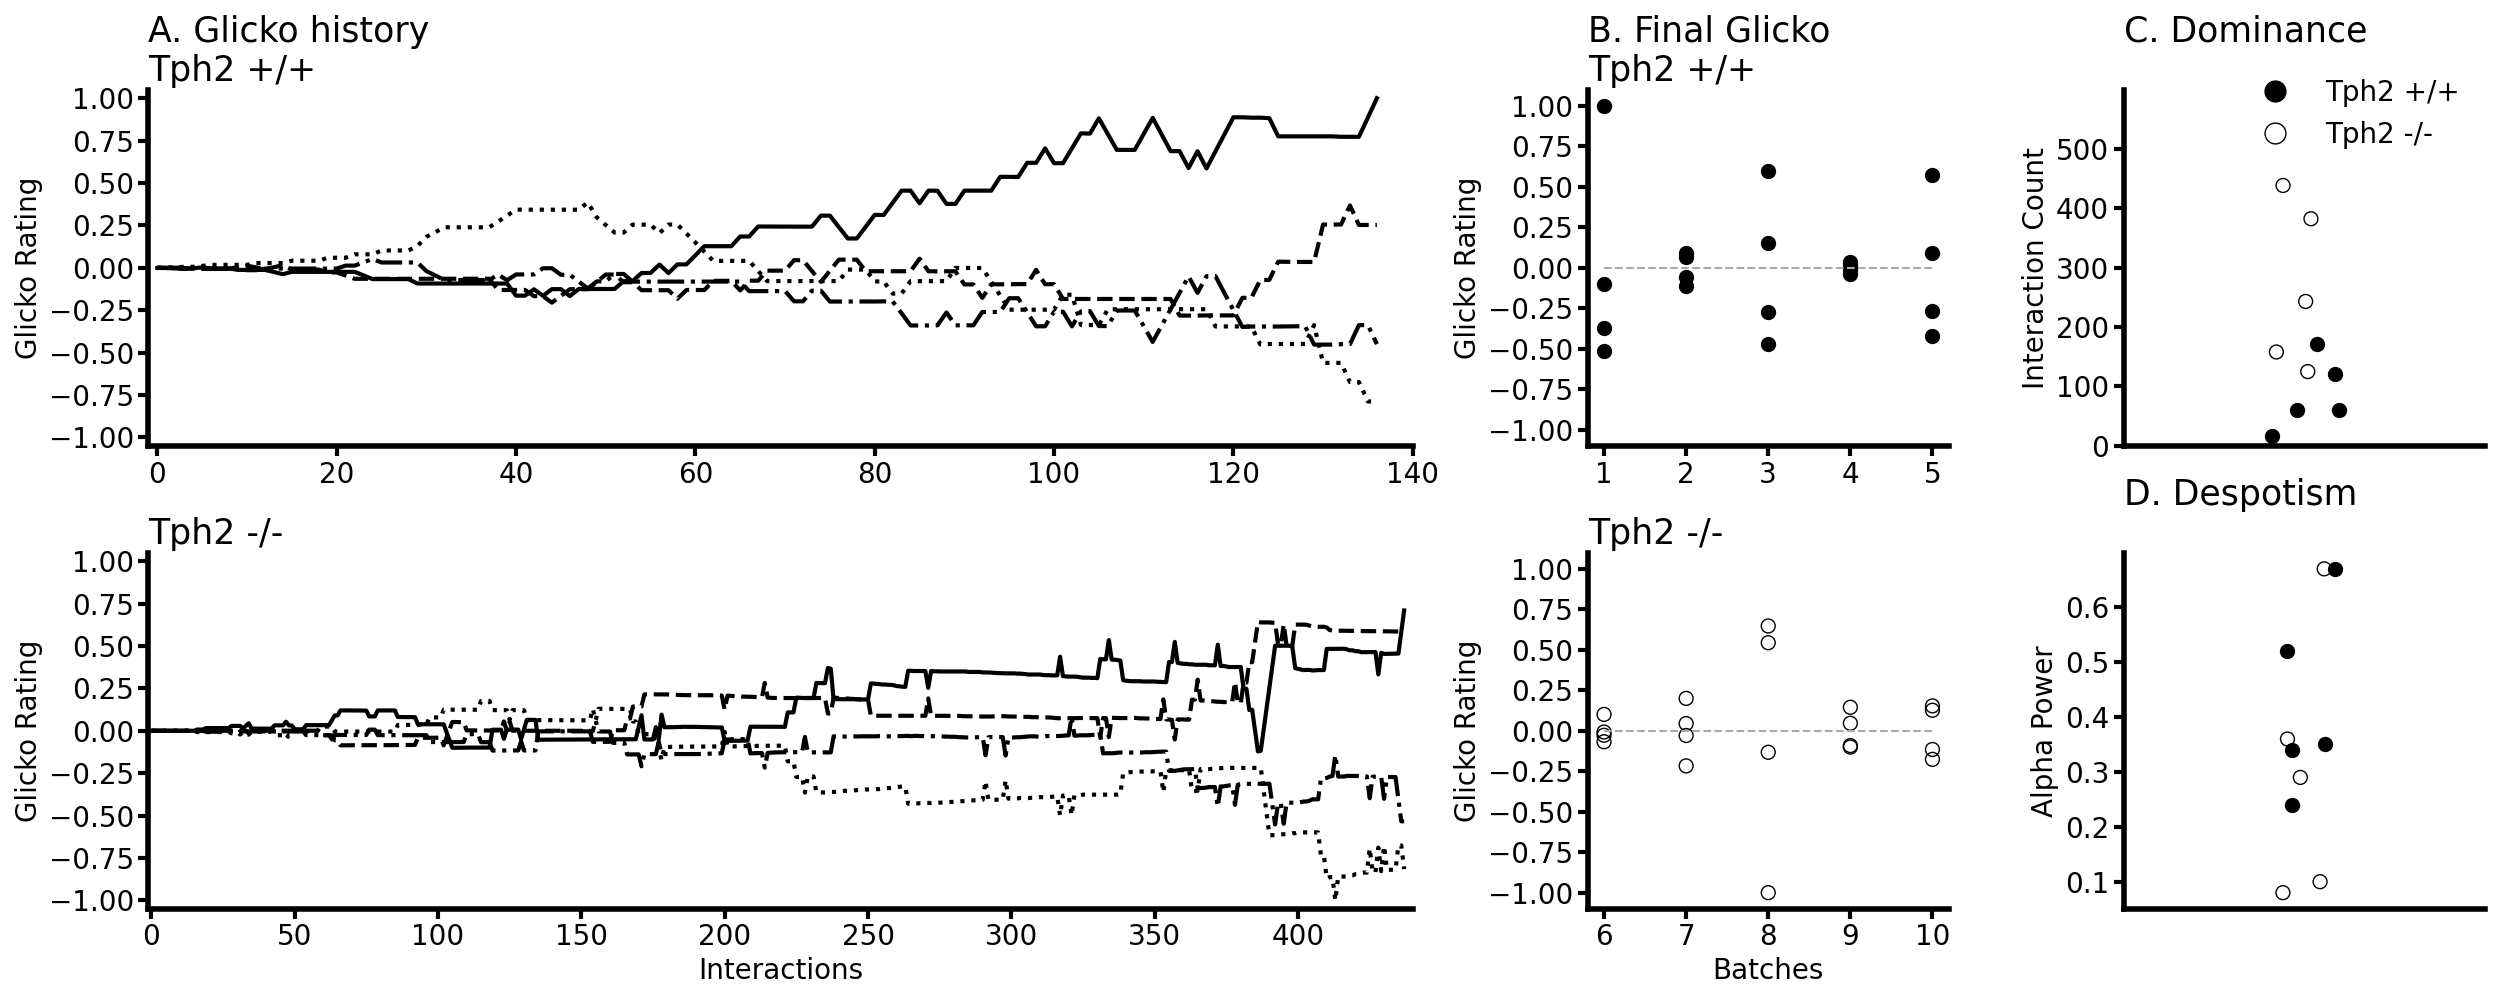
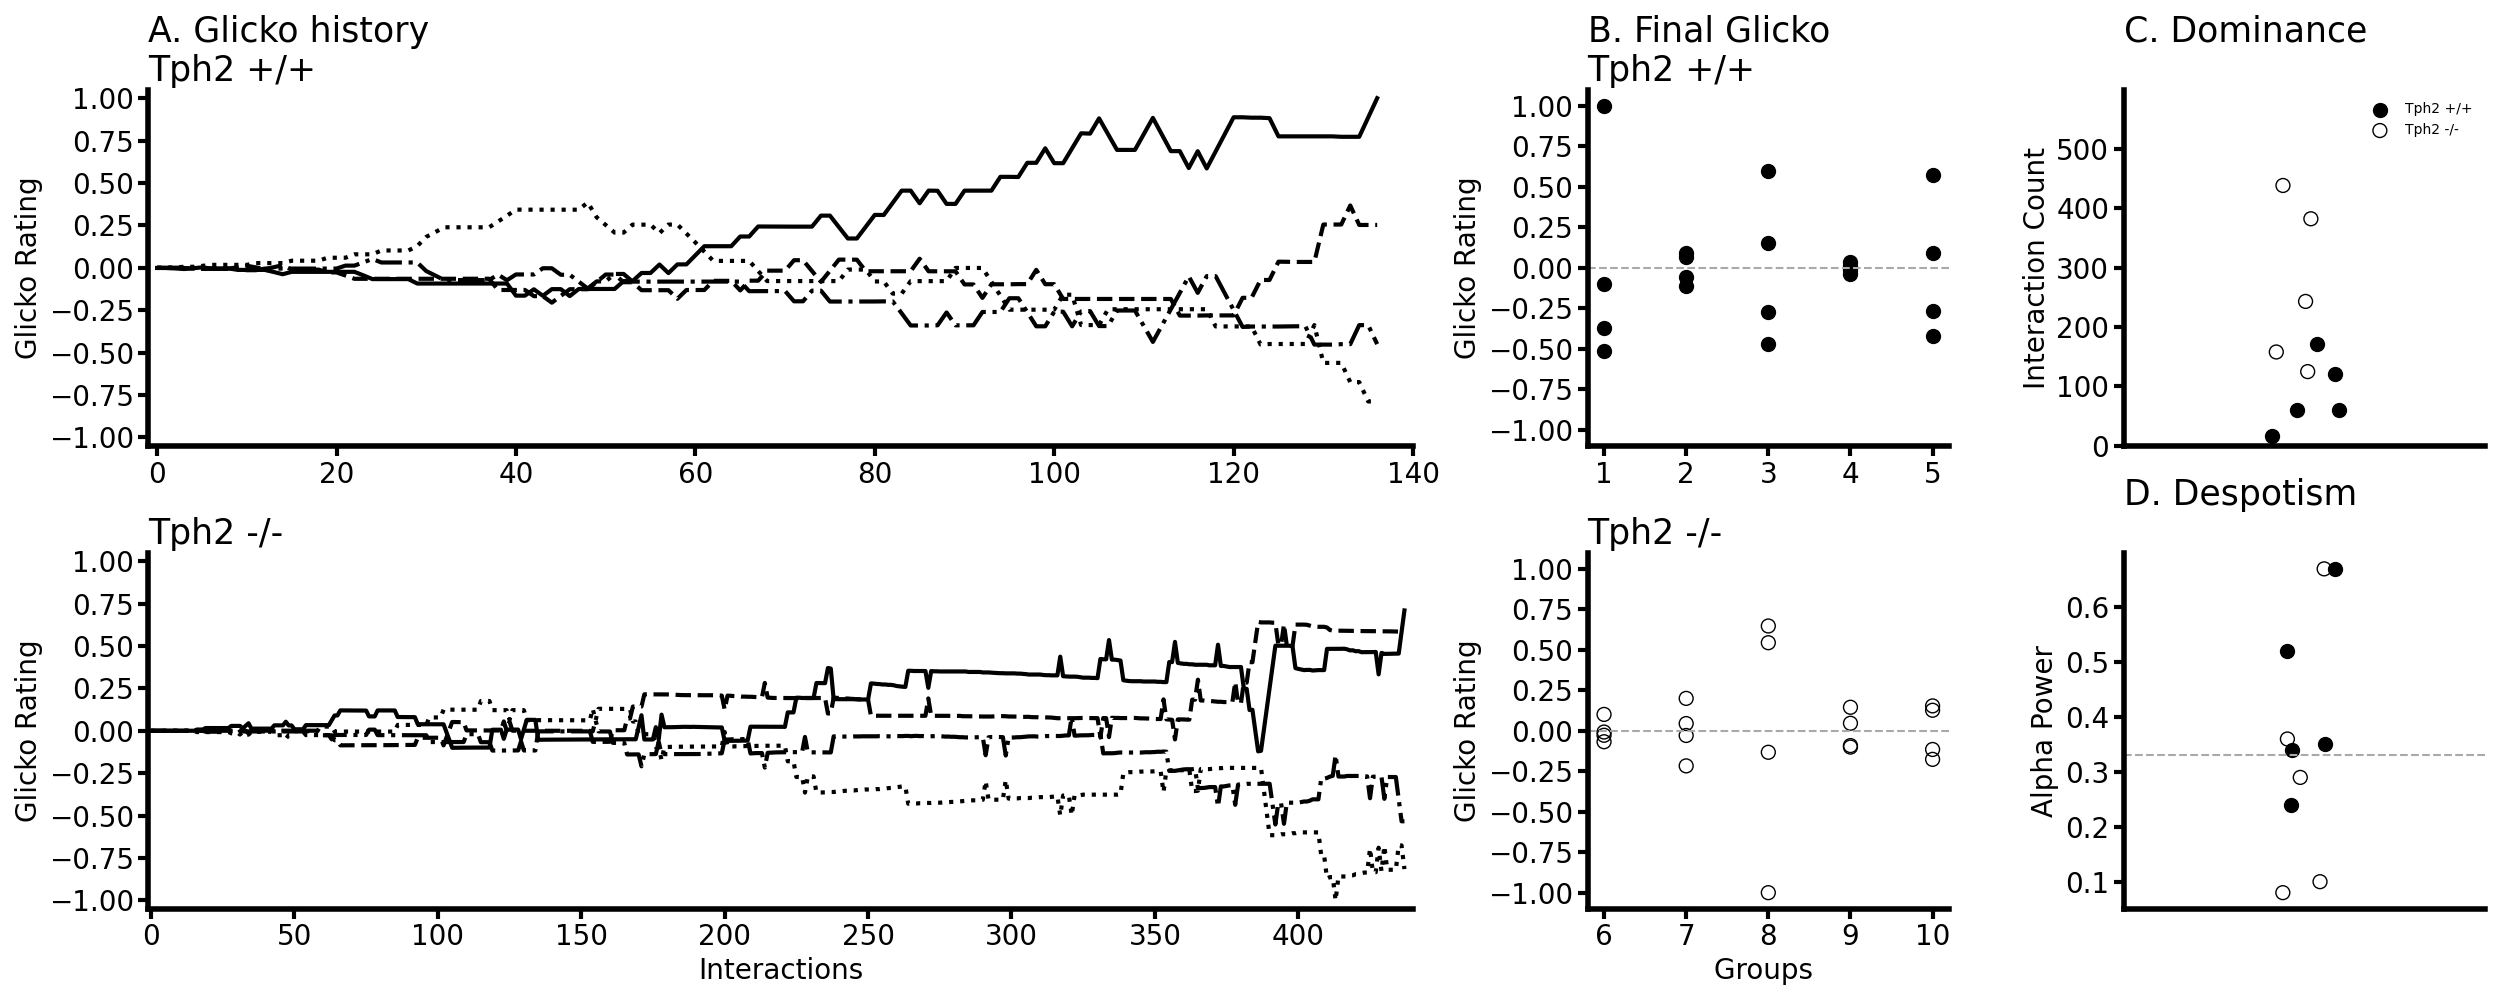
update final visualization

diff --git a/_dev_glicko_plot.py b/_dev_glicko_plot.py
@@ -610,7 +610,8 @@ axs[0,1].yaxis.label.set_fontsize(fontsize)
 axs[0,1].spines['left'].set_linewidth(4)
 axs[0,1].spines['bottom'].set_linewidth(4)
 axs[0,1].set_xticks(numpy.arange(1,6), labels=numpy.arange(1,6))
-axs[0,1].plot(numpy.arange(1,6),numpy.repeat(0,5),ls='--',color = 'darkgray')
+axs[0,1].axhline(0, ls ='--', color='darkgray')
+# axs[0,1].plot(numpy.arange(1,6),numpy.repeat(0,5),ls='--',color = 'darkgray')
 axs[0,1].tick_params(width=3, length=7)
 
 for i in numpy.arange(5,10):
@@ -630,9 +631,9 @@ axs[1,1].yaxis.label.set_fontsize(fontsize)
 axs[1,1].spines['left'].set_linewidth(4)
 axs[1,1].spines['bottom'].set_linewidth(4)
 axs[1,1].set_xticks(numpy.arange(1,6), labels=numpy.arange(6,11))
-axs[1,1].plot(numpy.arange(1,6),numpy.repeat(0,5),ls='--',color = 'darkgray')
+axs[1,1].axhline(0, ls ='--', color='darkgray')
 axs[1,1].tick_params(width=3, length=7)
-axs[1,1].set_xlabel('Batches', fontsize=fontsize)
+axs[1,1].set_xlabel('Groups ', fontsize=fontsize)
 
 for label in ([axs[0,1].title,axs[1,1].title] + axs[0,1].get_xticklabels() + axs[0,1].get_yticklabels() + axs[1,1].get_xticklabels() + axs[1,1].get_yticklabels()):
     label.set_fontsize(fontsize)
@@ -644,16 +645,20 @@ for label in ([axs[0,1].title,axs[1,1].title] + axs[0,1].get_xticklabels() + axs
 x_jitter1 = numpy.array([0.95534285, 1.04809788, 0.99010567, 1.0181319 , 1.0422938 ,
        1.00470313, 1.00175763, 0.96126289, 1.00909865, 0.97047873])
 
-WT = mlines.Line2D([], [], color='black', marker='o', linestyle='None', markersize=15, label='Tph2 +/+')
-
-KO = mlines.Line2D([], [], color='black',fillstyle = 'none',   marker='o', linestyle='None', markersize=15, label='Tph2 -/-')
+# WT = mlines.Line2D([], [], color='black', marker='s', linestyle='None', markersize=10, label='Tph2 +/+')
+# KO = mlines.Line2D([], [], color='black',fillstyle = 'none',   marker='s', linestyle='None', markersize=10, label='Tph2 -/-')
 
 for i in numpy.arange(10):
     if i < 5:
         filled = 'black'
+        _label='Tph2 +/+'
     else:
         filled = 'none'
-    axs[0,2].scatter(x_jitter1[i], Dominance[0][i], marker = 'o', facecolor=filled, color = 'black', s = 100)
+        _label='Tph2 -/-'
+    if i in [0,5]:
+        axs[0,2].scatter(x_jitter1[i], Dominance[0][i], marker = 'o', facecolor=filled, color = 'black', s = 100, label = _label)
+    else:
+        axs[0,2].scatter(x_jitter1[i], Dominance[0][i], marker = 'o', facecolor=filled, color = 'black', s = 100)
 
 
 axs[0,2].set_title('C. Dominance \n', loc = 'left', fontsize = fontsize+5)#, weight='bold')
@@ -668,7 +673,8 @@ axs[0,2].yaxis.label.set_fontsize(fontsize)
 axs[0,2].spines['left'].set_linewidth(4)
 axs[0,2].spines['bottom'].set_linewidth(4)
 axs[0,2].set_xticks([])
-axs[0,2].legend(handles = [WT,KO], fontsize=fontsize, frameon = False, loc = 'upper right', bbox_to_anchor=(1,1.1))
+axs[0,2].legend(loc='best', frameon = False)
+# axs[0,2].legend(handles = [WT,KO], fontsize=fontsize, frameon = False, loc = 'upper right', bbox_to_anchor=(.7,1.1))
 axs[0,2].tick_params(width=3, length=7)
 
 
@@ -678,9 +684,8 @@ axs[0,2].tick_params(width=3, length=7)
 x_jitter2 = numpy.array([1.04197265, 0.98218399, 0.98294308, 1.02805604, 0.97595451,
        1.02746764, 0.97661856, 0.97030259, 0.99442258, 1.02175054])
 
-# WT = mlines.Line2D([], [], color='black', marker='o', linestyle='None', markersize=10, label='Tph2 +/+')
-
-# KO = mlines.Line2D([], [], color='black',fillstyle = 'none',   marker='o', linestyle='None', markersize=100, label='Tph2 -/-')
+WT = mlines.Line2D([], [], color='black', marker='o', linestyle='None', markersize=10, label='Tph2 +/+')
+KO = mlines.Line2D([], [], color='black',fillstyle = 'none',   marker='o', linestyle='None', markersize=10, label='Tph2 -/-')
 
 for i in numpy.arange(10):
     if i < 5:
@@ -689,7 +694,7 @@ for i in numpy.arange(10):
         filled = 'none'
     axs[1,2].scatter(x_jitter2[i], Despotism_old[i], marker = 'o', facecolor=filled, color = 'black', s = 100)
 
-
+axs[1,2].axhline(0.33, ls ='--', color='darkgray')
 axs[1,2].set_title('D. Despotism \n', loc = 'left', fontsize = fontsize+5)#, weight='bold')
 axs[1,2].set_xlim(0.75,1.25)
 axs[1,2].spines['right'].set_visible(False)
@@ -702,6 +707,7 @@ axs[1,2].spines['left'].set_linewidth(4)
 axs[1,2].spines['bottom'].set_linewidth(4)
 axs[1,2].set_xticks([])
 # axs[1,2].legend(handles = [WT,KO])
+
 axs[1,2].tick_params(width=3, length=7)
 
 for label in ([axs[0,2].title,axs[1,2].title] + axs[0,2].get_xticklabels() + axs[0,2].get_yticklabels() + axs[1,2].get_xticklabels() + axs[1,2].get_yticklabels()):
@@ -709,5 +715,10 @@ for label in ([axs[0,2].title,axs[1,2].title] + axs[0,2].get_xticklabels() + axs
 
 
 plt.tight_layout()
+
+# plt.show()
+
+
+
 plt.savefig(f'/{Path}/Plots/FinalCombination_new.png')
 plt.close()
